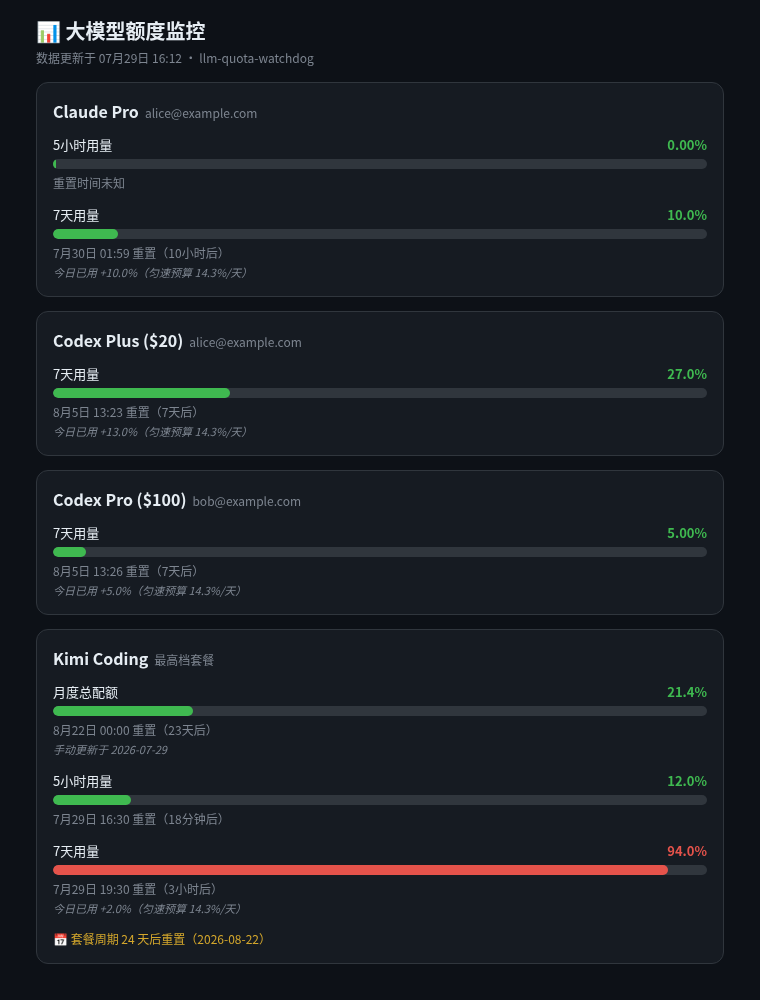
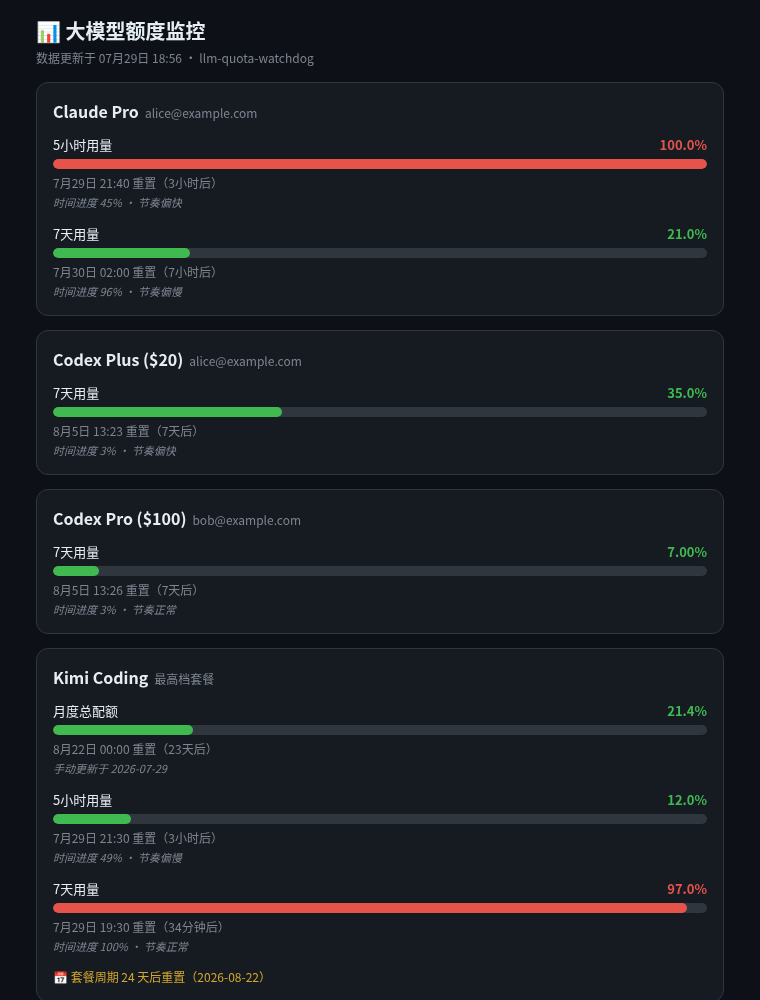
Replace daily-burn metric with in-window pace indicator
Comparing "used today vs daily budget" was misleading across mid-day
window resets. Now every window shows time elapsed vs. usage with a
fast/normal/slow verdict (usage pct vs. fair pace), which answers the
real question: am I ahead of or behind a sustainable rhythm?

- remove daily overspend alert and daystart state tracking
- pace note in page cards and watchdog summary (5h + weekly windows)
- update screenshot and READMEs

Generated with [Claude Code](https://claude.ai/code)
via [Happy](https://happy.engineering)

Changed region(s): [[0.0605, 0.124, 0.9382, 0.62], [0.0605, 0.651, 0.9382, 0.992], [0.2118, 0.031, 0.2421, 0.062]]

diff --git a/quota_watchdog.py b/quota_watchdog.py
@@ -44,7 +44,6 @@ THRESH = {
     "high_5h": 80,                  # nearly-used-up: 5h window %
     "high_week": 90,                # nearly-used-up: weekly window %
     "fast_margin": 15,              # burning-too-fast: usage ahead of time pace (points)
-    "daily_overspend_factor": 1.5,  # overspend: today burn >= factor * daily budget
     "waste_mid_elapsed": 50,        # mid-cycle waste: elapsed >= this %
     "waste_margin": 30,             # ...and usage behind by this many points
     "waste_hours_left": 26,         # near-reset waste: reset within this many hours
@@ -52,9 +51,6 @@ THRESH = {
     "refill_drop": 30,              # refill detection: drop of this many points
     "expiry_alert_days": [7, 3, 1],
 }
-
-DAILY_BUDGET = 100.0 / 7
-
 
 # ---------------------------------------------------------------- utils
 
@@ -246,6 +242,26 @@ def push(cfg, title, body):
 
 # ---------------------------------------------------------------- watchdog
 
+WIN_SECONDS = {"5h": 5 * 3600, "7d": 7 * 86400}
+
+def pace_info(pct, reset, win):
+    """Compare usage pct against fair pace (elapsed time fraction of the window)."""
+    if pct is None or reset is None or win not in WIN_SECONDS:
+        return None
+    total = WIN_SECONDS[win]
+    start_ts = reset.timestamp() - total
+    elapsed = (now_utc().timestamp() - start_ts) / total * 100
+    elapsed = min(max(elapsed, 0), 100)
+    diff = pct - elapsed
+    verdict = "偏快" if diff > 5 else ("偏慢" if diff < -5 else "正常")
+    return elapsed, verdict
+
+def pace_note(pct, reset, win):
+    pi = pace_info(pct, reset, win)
+    if pi is None:
+        return ""
+    return " · 时间进度%d%% %s" % (round(pi[0]), pi[1])
+
 def fmt_reset_short(cfg, ts):
     if ts is None:
         return ""
@@ -298,22 +314,6 @@ def cmd_watchdog(cfg, summary_mode):
             # everything below is skipped for relaxed accounts
             if acct in relaxed:
                 continue
-            # daily burn tracking (weekly windows)
-            if win != "5h":
-                dkey = "daystart|%s|%s" % (acct, win)
-                ds = state.get(dkey)
-                if not ds or ds.get("date") != today:
-                    ds = {"date": today, "pct": pct}
-                if pct < ds.get("pct", pct):
-                    # window refilled today; count burn from zero
-                    ds = {"date": today, "pct": 0}
-                state[dkey] = ds
-                today_used = pct - ds.get("pct", pct)
-                okey = "overspend|%s|%s|%s" % (acct, win, today)
-                if today_used >= DAILY_BUDGET * th["daily_overspend_factor"] and not state.get(okey):
-                    alerts.append("【今日超支】%s 今天已烧周额度 %.0f%%（每日预算 %.0f%%），悠着点"
-                                  % (acct, today_used, DAILY_BUDGET))
-                    state[okey] = True
             # pacing alerts (weekly windows)
             if win != "5h" and reset is not None:
                 start = reset - datetime.timedelta(days=7)
@@ -373,12 +373,7 @@ def build_summary(cfg, results, state, today):
         parts = []
         for win, (pct, reset) in q.items():
             label = "5h" if win == "5h" else "周"
-            extra = ""
-            if win != "5h" and pct is not None:
-                ds = state.get("daystart|%s|%s" % (acct, win)) or {}
-                if ds.get("date") == today:
-                    extra = " 今日%+.0f%%" % (pct - ds.get("pct", pct))
-            parts.append("%s %s%s%s" % (label, fmt_pct(pct), fmt_reset_short(cfg, reset), extra))
+            parts.append("%s %s%s%s" % (label, fmt_pct(pct), fmt_reset_short(cfg, reset), pace_note(pct, reset, win)))
         lines.append("%s: %s" % (acct, " · ".join(parts)))
     now = now_utc()
     for name, date_str in (cfg.get("plan_expiry") or {}).items():
@@ -469,14 +464,6 @@ PAGE_TEMPLATE = """<!DOCTYPE html>
 
 def cmd_page(cfg):
     results = collect(cfg)
-    state = {}
-    if os.path.exists(cfg["state_file"]):
-        try:
-            with open(cfg["state_file"]) as f:
-                state = json.load(f)
-        except Exception:
-            pass
-    today = now_utc().astimezone(cfg["_tz"]).date().isoformat()
 
     cards = []
     for name, q in results.items():
@@ -495,13 +482,8 @@ def cmd_page(cfg):
                 if win not in q:
                     continue
                 pct, reset = q[win]
-                note = ""
-                if win == "7d" and pct is not None:
-                    ds = state.get("daystart|%s|7d" % name) or {}
-                    if ds.get("date") == today:
-                        base = ds.get("pct", pct)
-                        burn = pct - base if pct >= base else pct
-                        note = "今日已用 %+.1f%%（匀速预算 %.1f%%/天）" % (burn, DAILY_BUDGET)
+                pi = pace_info(pct, reset, win)
+                note = "" if pi is None else "时间进度 %.0f%% · 节奏%s" % pi
                 rows.append(window_html(cfg, "5小时用量" if win == "5h" else "7天用量", pct, reset, note))
         expiry_html = ""
         exp = (cfg.get("plan_expiry") or {}).get(name)

diff --git a/README.md b/README.md
@@ -23,7 +23,7 @@ llm-quota-watchdog polls the same endpoints the official CLIs use, renders a sin
 
 ### Dashboard (static HTML, regenerate on cron)
 
-Per account: 5-hour / weekly progress bars with exact percentages and reset countdowns, daily burn vs. fair-share budget, plan expiry countdown. Dark, mobile-friendly.
+Per account: 5-hour / weekly progress bars with exact percentages, reset countdowns, usage-vs-time pace (fast/slow), plan expiry countdown. Dark, mobile-friendly.
 
 ![dashboard](docs/screenshot.png)
 
@@ -33,7 +33,7 @@ Per account: 5-hour / weekly progress bars with exact percentages and reset coun
 |---|---|
 | 🔴 Nearly used up | 5h window ≥ 80%, weekly ≥ 90% |
 | 🟠 Burning too fast | usage 15 points ahead of time pace in the weekly window |
-| 🟠 Daily overspend | today's burn ≥ 1.5× daily fair share (weekly ÷ 7) |
+| ⏱ Pace indicator | every window shows time elapsed vs. usage — fast/slow at a glance |
 | 🟡 Use it or lose it | half the window gone but usage 30+ points behind · or ≤26h to reset with ≤60% used |
 | 🟢 Refilled | window reset detected (usage dropped 30+ points) |
 | 📅 Plan expiring | 7 / 3 / 1 days before a manually-configured plan expiry date |
